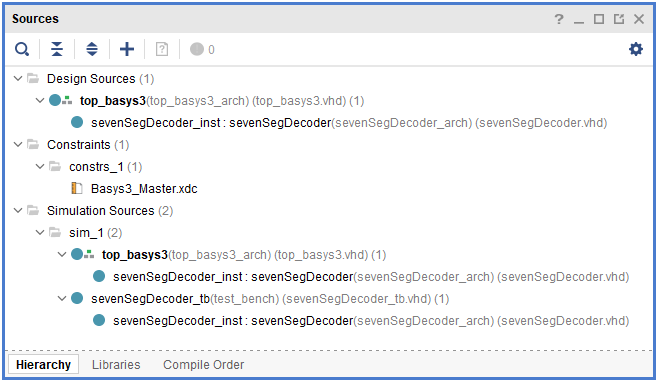
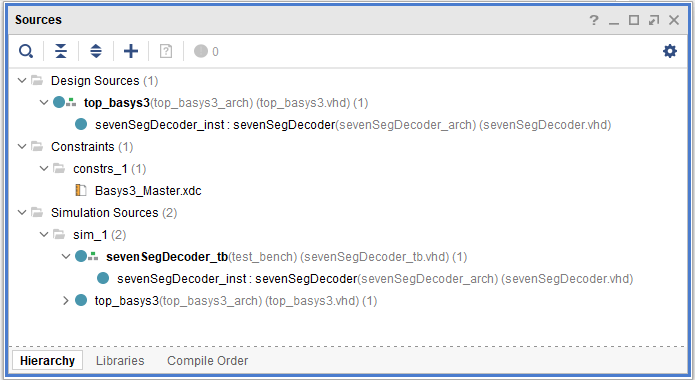
deploy: aa5d1c7a1cbb6d17ea5cd9da503f54fb292284c9

Changed region(s): [[0.0, 0.0, 1.0, 1.0], [0.6627, 0.8974, 0.753, 0.9263], [0.4518, 0.8974, 0.512, 0.9263]]

diff --git a/searchindex.js b/searchindex.js
@@ -1,1 +1,1 @@
-Search.setIndex({docnames:["ICE/ICE0","ICE/ICE1","ICE/ICE2","ICE/ICE3","appendix/github","appendix/vivado","faq","intro","lab/lab0","lab/lab1","lab/lab2"],envversion:{"sphinx.domains.c":2,"sphinx.domains.changeset":1,"sphinx.domains.citation":1,"sphinx.domains.cpp":5,"sphinx.domains.index":1,"sphinx.domains.javascript":2,"sphinx.domains.math":2,"sphinx.domains.python":3,"sphinx.domains.rst":2,"sphinx.domains.std":2,"sphinx.ext.intersphinx":1,sphinx:56},filenames:["ICE/ICE0.md","ICE/ICE1.md","ICE/ICE2.md","ICE/ICE3.md","appendix/github.md","appendix/vivado.md","faq.md","intro.md","lab/lab0.md","lab/lab1.md","lab/lab2.md"],objects:{},objnames:{},objtypes:{},terms:{"0":[1,2,3,4,5,7,9,10],"00":[3,4],"000":3,"0001":9,"001":3,"01":[2,3],"0fcc837":4,"0v":1,"1":[2,3,4,5,7,10],"10":[1,2,3,9,10],"100":4,"100644":4,"11":[1,9],"1100":9,"111":1,"114":4,"12":[2,9],"14":2,"15":[9,10],"16":9,"17":[2,10],"18":3,"19":3,"1981":2,"1x":1,"2":[1,3,4,5,7,8,9],"20":[3,10],"2017":2,"2018":[4,5],"20v":1,"22":9,"23":10,"24":10,"25":[9,10],"26":10,"27":10,"28":10,"281":1,"2x":1,"3":[1,2,4,5,7,9,10],"30":10,"31":9,"32":5,"33":5,"35":4,"3rd":0,"3v":1,"4":[1,9,10],"40":9,"4096":0,"4ddeb1c":4,"4th":9,"4x":1,"5":[1,2,4],"50":2,"5v":1,"5x":1,"6":[1,4],"7":[2,10],"7400":9,"7404":9,"7411":9,"74151":9,"74154":9,"7432":9,"8":[1,2,4,9],"9":[1,4],"9bf376d":4,"abstract":[2,3],"boolean":[1,10],"break":10,"case":[0,2,3,9,10],"class":[0,1,2,3,9],"default":[0,2,3,4,5,8,10],"do":[0,1,2,3,5,6,8,9,10],"final":[1,2,3,9],"float":9,"function":[0,1,2,3,9,10],"import":2,"k\u03c9":1,"long":9,"new":[2,3,4,8,10],"public":0,"short":2,"switch":[2,3,4,8,9,10],"true":2,"try":[0,2,3],"while":[2,10],A:[1,2,3,4,8,9],AND:[2,8,9,10],As:[3,9,10],At:2,But:[2,8],By:[0,2,5,8],For:[0,1,2,4,8,9,10],If:[0,1,2,3,4,5,8,10],In:[0,1,2,3,4,5,8,9,10],Is:10,It:[0,2,3,4,5,9,10],NO:[2,9,10],NOT:[2,3,9,10],No:5,OR:[7,9,10],On:[2,4,5,10],One:8,Or:[0,5,6],TO:5,That:8,The:[0,2,4,5,7,8,9,10],Then:[2,3,8,9,10],There:[2,4,9,10],These:[1,2,3,9,10],To:[1,2,4,9,10],_n:2,_pad:2,_tb:[2,4,5],_xil_proj_name_:5,ab:[2,3],abil:[7,8],abl:[0,2,5,7],about:[1,2,4,10],abov:[1,2,4,8,9,10],absolut:5,ac_:3,academ:[9,10],accept:[0,9,10],access:[0,2,4,9,10],accord:[1,9,10],accur:1,act:1,action:[2,3,9],activ:[1,2,9,10],actual:[2,9],ad:[2,3,10],add:[0,1,2,3,10],adder:[7,10],addit:[2,3,5,9],addition:1,address:[0,4],adjust:[2,9],advanc:5,advantag:10,advnac:5,after:[2,4,9,10],again:[2,10],aggreg:10,ahead:2,air:0,aka:10,algebra:1,align:1,all:[0,1,2,3,4,5,7,9,10],allow:[0,1,2,3,4,9,10],almost:2,along:[1,2],alreadi:[2,3,4,5,8,9,10],also:[0,2,4,8,9,10],altern:[2,5,8],alwai:[2,3],an:[1,2,3,4,5,7,8,9,10],analysi:[2,10],analyz:7,ani:[1,2,3,4,5,9,10],anod:10,anoth:[9,10],anyon:[9,10],anyth:[0,1,2,8],appear:[2,3,9],appendix:[0,2,4],applic:[0,1,2,3],appropri:[2,5,9],approv:4,ar:[0,1,2,3,4,5,9,10],area:10,aren:3,arrai:[2,10],arrang:1,arrow:2,ask:8,assert:[2,3,10],assign:[2,3,9,10],associ:2,assum:5,atlassian:0,attach:1,attent:9,attribut:[9,10],authent:0,author:[1,2],auto:[2,8],autofind:4,autom:[4,10],automat:[2,3],avail:[3,9,10],avoid:0,awar:2,awesom:3,b:[0,1,2,3,5,9,10],b_:2,back:[2,4],bad:[2,3],bar:1,bare:4,base:[2,4,5,10],bash:[0,2,4,5,8],basi:2,basic:[1,2,7,10],basys3:[5,9,10],basys3_mast:[2,10],basys3master_lab1:9,bat:[2,3,5,8],batch:5,bc_:3,bce0:2,bce:[7,8],bcy:5,becaus:[2,3,9,10],becom:2,been:[2,3,4,5,10],befor:[0,2,3,9,10],begin:[2,3,9,10],behavior:[2,8,9],being:[2,4],below:[2,3,4,5,9,10],bench:[2,3],benefit:[0,3],best:0,better:[4,10],between:[0,1,2,3,9],beyond:4,bidirect:2,bin:5,binari:[9,10],binaryhexdisp:10,bit0:10,bit3:10,bit:[2,3,8,9,10],bitbucket:0,bitstream:[8,9,10],black:[1,2],block:[0,2,6],blue:[1,9,10],board:[1,2,3,9,10],board_fil:5,boil:2,bold:5,book:4,both:[0,5],bottom:[1,2,5,10],boundari:3,box:[0,2,10],branch:0,breadboard:9,bring:[3,10],brows:2,btnc:10,bu:[2,10],buffer:2,bug:4,build:[0,3,4,5,9,10],built:[8,10],bunch:2,buss:[2,10],bust:2,button:[1,5,10],c:[0,1,5,6,9],c_:[2,3,10],c_sa:10,c_sg:10,cabl:1,cadet:[0,7],california:4,call:[2,5,10],can:[0,1,2,3,4,5,9,10],cancel:2,capt:2,carri:[2,3],cat:2,cathod:10,caus:10,cc:1,cd:[2,5,8],ceil:9,cell:2,center:[1,10],chang:[0,2,3,4,8,9,10],channel:0,chcek:5,check:[0,1,3,5,9,10],checkout:0,chip:[2,9],choic:[0,10],choos:0,circl:[2,8],circuit:[2,7,10],circuitri:9,clariti:10,classmat:0,classroom:[0,2,3,8,9],click:[2,5,8,9,10],clone:[0,3,5,9,10],close:[1,5],closer:1,cloud:[4,9],code:[0,1,2,3,4,5,8,9,10],cold:9,collabor:[0,4],color:2,column:[1,2],com:[0,2,4,8],combin:[0,1,2,3,7,9,10],combinatori:[2,10],come:[0,2,4,10],comma:2,command:[0,2,5],comment:[2,5,10],commit:[0,2,3,9,10],common:[0,2,8,10],compar:10,complet:[1,2,3,4,8,9],complex:[2,3,10],compon:[0,1,2,9,10],compos:10,compress:4,comput:[0,1,2,3,5],concaten:10,concept:[3,9],conceptu:2,concurr:[2,3,9,10],condit:9,config:0,configur:[1,4],confirm:2,conflict:0,congratul:[1,2,3],connect:[1,2,3,8,9,10],connector:2,consciou:2,consid:[1,2],consol:5,constant:2,constraint:[5,10],construct:[2,7,9],consult:2,contain:[1,2,4],contemporari:7,content:2,continu:[2,4],contrast:10,contribut:0,contributor:4,control:[0,4,5,7,9],convent:[2,3,5,9,10],convert:[9,10],coorespond:2,copi:[0,2,3,4,5,8,9,10],corner:[2,8],correct:[2,10],correctli:[2,9],correspond:[2,9],could:[4,10],count:4,cours:[0,1,2,3,4,9,10],cout:2,cover:10,creae:5,creat:[2,3,4,8,9,10],create_project:5,credednti:0,credit:[2,9,10],critic:2,cryptograph:0,ctrl:[2,10],current:[1,4],cyber:[0,2],d0:10,d1:10,d2:10,d3:10,d:[1,9,10],dai:9,dark:10,data:[1,2,5,9],datapath:7,datasheet:9,date:4,dc:1,dealt:[9,10],debug:[2,3,7,8],decemb:9,decim:10,declar:[2,9,10],decod:[7,9],deconflict:4,deep:4,defin:[2,7,9,10],definit:2,delai:9,delet:[4,5,10],delta:4,demo:[2,3,8,9],demonstr:[1,7],denot:10,depend:2,depict:1,deploi:4,depress:1,deriv:10,describ:[2,9,10],descript:[2,3,5,7],design:[1,5,9,10],desir:[2,9],destroi:1,detail:[2,3,8],determin:[9,10],develop:[0,2,4,7,9,10],devic:[1,2,8],devop:0,diagram:[2,7,10],did:[2,10],differ:[1,2,3,9,10],digit:[1,2,9,10],dip:1,dir:2,direct:[1,2],directli:[0,1,2,3,8,10],directori:[2,3,5,8],disabl:[2,10],discuss:[3,9,10],dishonor:[9,10],displai:[2,7],distribut:[0,4,10],dive:8,dmm:1,doc:4,document:[1,2,3,9,10],dod:2,doe:[0,2,10],don:[2,3,5],done:[2,4,5,9,10],doubl:[1,2,3,8,9,10],down:[0,1,2,4,9,10],download:[0,8,9,10],downto:[3,9,10],drive:[2,8],driver:2,dropdown:4,dude:4,due:[1,2,9,10],dure:[3,9],e:[2,9,10],each:[1,2,3,4,9,10],eae5f1a:4,earli:0,earlier:[2,10],easier:[2,10],easiest:5,easili:[1,10],ec:[1,4,8],ece281:[2,4,5],ece_templ:10,ece_template_tb:10,echo:5,ed25519:0,edg:1,edit:[9,10],editor:[0,2],either:[1,4,5,9],electron:9,element:2,els:10,elsewher:5,email:0,embed:10,embedd:6,emphasi:2,emploi:3,empti:2,emul:2,enabl:[9,10],encod:9,end:[0,10],endors:0,enitr:3,enough:10,enrol:7,ensur:[1,3,8,9,10],enter:[4,5],entir:[1,3,4,8,10],entiti:[4,5],enumer:4,environ:0,equat:[2,3,9,10],equival:[8,9],error:[2,10],essenc:2,essenti:10,establish:10,etc:2,eventu:9,everi:[4,9,10],everyth:[2,4,10],ex:[0,2],exact:9,exactli:10,exampl:[0,2,3,4,5,9,10],excel:10,except:2,execut:[2,7],exercis:[0,1,2,3],exist:[2,5],exit:[2,5],expand:9,expect:[0,1,2,3,9,10],experi:[1,2,3],explicitli:10,explor:[2,8],expos:0,express:[2,3,10],extend:3,extern:[0,2],extran:10,f:[2,6,10],f_:2,fact:0,fail:3,failur:[2,3],familiar:2,fantast:0,faq:7,far:[2,3,9],fast:[0,2,3,7],featur:4,feel:0,fetch:4,fetch_head:4,few:[2,5],ff_:2,fff_:2,field:2,fierc:0,fig:[1,2,3,5,9,10],figur:[2,10],file:[0,4,8],filenam:2,fill:[2,3,9,10],find:[1,2,5,9,10],fine:[0,2],finish:[0,5,9,10],firewal:2,first:[0,1,2,3,8,9,10],fit:2,fix:10,flat:1,flip:[2,8],flow:[0,5,8,10],focu:3,folder:[2,3,4,8,10],follow:[0,2,3,8,9,10],forc:0,forev:2,form:2,format:[2,10],found:[0,9],four:[1,2,5,9,10],fourth:9,fpga:10,fpgadevelop:5,frac:6,from:[0,1,2,5,8,9,10],furthermor:[9,10],futur:[2,9],g:[2,9,10],g_:2,gain:[1,2,3],gate:[2,3,7,9,10],gener:[0,3,8,9,10],get:[2,3,4,7,8],get_port:[2,3],git:[3,7,9],github:[2,3,7,9],github_repo:4,gitlab:0,give:9,given:[2,3],global:0,gnd:9,go:[0,1,2,3,5,8],goal:3,gone:2,good:[2,8],grade:[9,10],gradescop:[9,10],grai:2,graphic:0,greatli:2,green:[2,5,8],ground:[1,9],guard:0,gui:[0,8],guid:[0,2],gut:2,ha:[0,2,3,4,9,10],habit:2,half:[7,10],halfadd:[2,3],halfadder1_inst:3,halfadder2_inst:3,halfadder_arch:2,halfadder_inst:2,halfadder_tb:[2,3],hallfadd:3,hand:[2,8,9],handout:[9,10],happen:[2,10],hardwar:[1,2,5,7,8,9],have:[0,1,2,3,4,5,8,9,10],haven:9,hdl:[2,3,5,10],headach:9,header:[3,9,10],headquart:4,hello:8,hellol:[4,8],help:[1,2,4,9,10],here:[2,3,8,9],hex:[3,9,10],hexadecim:10,hi:0,hidden:4,hierarchi:[3,10],high:[1,2,10],highlight:[2,3],histori:4,hold:[2,10],home:0,honor:[9,10],host:[0,4],hover:2,how:[0,1,2,3,4,6,7,9,10],howev:[1,2,3,10],http:[0,4,8],i:[2,3,4,6],i_:[2,9,10],i_a:[2,3,9],i_b:[2,3,9],i_c:9,i_d:[9,10],i_sw:9,ic:[7,8,9],ice2:[2,3],ice3:[3,10],icon:2,id_algorithm:0,idea:8,ideal:1,ident:[0,2],identifi:10,idiom:2,ieee:2,ignor:[2,10],imag:[0,3],imagenam:3,img:[3,4],immedi:2,implement:[1,7,8],impli:4,implic:10,inc:4,includ:[0,1,3,4,9,10],incred:0,indent:1,independ:10,index:[3,9],indic:[1,2,4,10],individu:[3,9,10],info:4,inform:[2,9,10],initi:[0,2,9],inlin:6,input:[1,2,3,10],insert:[1,4],insid:[1,2,9],inspir:5,instal:[2,4,5,7],instanc:[2,10],instanti:2,instead:[0,2,3,9,10],instruct:[2,3,8,10],instructor:[0,1,2,3,8,9,10],integr:[0,2,4],interact:[2,4],interest:2,interfac:[0,2,10],intermedi:10,intern:[2,3,9,10],internet:4,interpret:2,introduc:3,invert:[9,10],invit:0,involv:[0,2],io:3,iostandard:[2,3],ir:6,isn:2,issu:[0,10],its:[1,2,10],itself:[2,10],januari:9,job:[2,3],join:[2,3,9],json:5,jumper:1,just:[0,1,2,3,4,5,6,8,9,10],k_:2,keep:[0,1,10],kei:[2,4,8],kept:4,kernel:0,keygen:0,keypair:0,keypress:5,keyword:10,kib:4,know:[0,5,9],lab0:5,lab1:5,lab2:10,lab:[0,1,2,3],label:[2,10],laboratori:7,lambda:6,languag:[2,7],laptop:0,larg:0,last:[2,8],late:4,later:[0,2,8],latex:6,launch:8,layer:[2,3],layout:1,lead:[1,3],learn:[0,1,2,9],least:[2,9,10],leav:[9,10],lectur:2,led0:2,led:[2,3,8,9],left:[1,2,8,10],leftmost:5,length:[1,2],less:1,lesson:[1,2,9,10],let:[2,3,9],letter:[9,10],level:[2,7,9],librari:[0,9],light:[1,8,10],like:[0,1,2,3,6,9,10],likewis:9,line:[0,1,2,3,9,10],liner:2,link:[0,2],linux:[0,4],list:[5,10],littl:0,live:[0,2,3,4,10],ll:8,local:[0,2,3,4,8],locat:[0,1,2,5,8,10],log:2,log_2:9,logic:[2,3,9,10],longer:1,look:[0,2,10],lookup:[2,10],lose:[2,4],lot:9,low:[1,2,9,10],lower:2,ls:2,lsb:[9,10],luckili:1,lut:[2,10],lvcmos33:[2,3],machin:[2,4],made:3,mai:[1,2,3,8,9,10],main:[0,2,4,9],maintain:2,make:[0,2,3,4,5,8,9,10],makeup:1,manag:[0,2,3,4,5,8],mani:[2,3,10],manipul:10,manner:10,manual:[2,3,10],map:[2,3,10],margin:2,mark:2,markdown:3,master:[0,4],match:[2,3,5,8,9,10],maxim:9,md:[3,4],me:4,mean:[1,2,3,9],media:0,meet:7,memori:2,menu:[2,4],merg:4,messag:[2,4,10],meta:4,meter:1,method:10,mib:4,microarchitectur:7,microsoft:[0,4],middl:1,migrat:3,mind:[0,3],minimum:4,minut:2,miss:2,missionnet:0,mkdir:8,mode:[2,4,5],model:9,modifi:[3,5],modul:[2,5,10],modular:10,month:9,more:[2,3,4,5,8,10],most:[0,1,2,4,9],mous:2,move:[2,9],msb:[9,10],multi:1,multimet:1,multipl:[0,2,4,10],multiplex:9,must:[0,2,3,5,9,10],mux:9,my:[0,3,4],name:[0,2,3,4,5,9,10],nand:9,nano:0,nativ:0,navig:[2,5,8,10],necessari:10,need:[0,1,2,3,4,5,9,10],neg:1,nest:5,newli:[2,8,10],next:[1,2,5,9],nice:[2,5],node:[1,2],non:4,none:[2,8],norepli:0,note:[0,1,2,3,5,9],notebook:[9,10],notepad:0,noth:2,notic:[1,2,3,10],now:[0,1,2,3,4,5,8,9,10],ns:[2,3,9],number:[2,3,10],numer:3,numeric_std:2,o:3,o_:[2,3,10],o_cout:[2,3],o_i:9,object:4,observ:[2,9],obviou:2,occurr:3,octal:3,off:[1,2,5,8,10],often:0,ok:[2,5,8],onc:[1,2,5,9],one:[0,1,2,3,5,9,10],onli:[0,1,2,3,4,5,9],onlin:[1,9],onto:8,op:1,open:[0,1,2,3,5,8,9,10],openssh:0,oper:[0,1,9,10],oplu:[2,3],opt:10,optim:2,option:[1,2,5,8],order:[3,5,8,9,10],organ:3,origin:4,origin_dir:5,other:[0,1,2,4,5,8,9,10],otherwis:[0,2,4,5,8,9,10],our:[0,1,2,3,5,8,9,10],ourselv:2,out:[2,3,9,10],output:[1,2,3,5,10],outsid:1,over:[0,2],overwhelm:0,overwrit:5,own:[1,9,10],p:10,pack:4,packag:2,package_pin:[2,3],page:[0,2],pai:9,pair:[9,10],palett:0,pane:[5,8],panel:2,parallel:2,parenthes:[9,10],part:[0,5,10],parti:0,partial:2,particip:2,partner:1,pass:[2,3,10],password:0,past:3,path:5,pattern:2,paus:5,pdf:[1,8,9],peek:2,per:2,perform:10,period:2,person:[0,9,10],perviou:3,philosophi:10,physic:[2,9,10],pick:5,pictur:2,pin:[1,2,9,10],pipelin:2,place:[1,2,4,5,9,10],placement:1,plan:[2,5,10],platform:2,plu:[2,4],plug:[2,8],png:[3,4],point:[2,4,9,10],polar:1,pop:2,popul:5,popular:0,popup:[2,8],port:[2,3,9,10],portion:[1,3,9],portnam:2,posit:[1,10],possibl:10,post:[2,5],potenti:1,power:[2,9,10],powershel:[0,4,8],practic:4,preced:2,prefer:[4,10],prefix:9,prelab:9,prepar:[0,1],prepent:2,present:5,press:[1,10],pretti:[0,8],previou:[2,3],primarili:2,print:[0,2,9],prior:9,privat:[0,2,3],probabl:5,problem:2,process:[2,3,9,10],produc:[2,5,9,10],profession:0,profil:0,program:[2,3,7],programm:2,project:[0,4],projeect:5,prompt:4,proof:2,proper:0,properli:[3,7,8],properti:[2,5],prototyp:[1,2],prove:0,provid:[0,1,2,3,4,9,10],pt:10,pub:0,pull:[1,3],purpl:[9,10],purpos:2,push:[0,2,3,5,9,10],put:[0,2],quick:[2,5],r:10,radio:5,radix:2,rail:1,ran:2,rate:1,rather:2,read:[0,1,2,9,10],readabl:10,readi:0,readm:[0,2,10],real:[0,2,3,7,9],realiz:2,reason:2,rebuild:5,recal:[2,3,9],receiv:[1,2],recommend:[0,3,10],record:[2,7],red:[1,2,5,9],redraw:[2,3],refer:[3,5,9,10],referenc:3,reflect:3,refresh:9,regist:[1,2],regular:2,rel:5,remain:[1,2,3,10],rememb:[3,9,10],remot:[0,2],remov:[2,4,10],renam:[2,9],repeat:[1,5,9],replac:[2,3,9,10],repo:[2,3,4,5,10],report:[2,3,7,9],repositori:[0,2,3,10],repres:[1,2,9],request:4,requir:[1,2,3,7,10],resolv:4,resourc:[1,10],rest:[0,2,5,9],restart:5,restor:4,result:[2,9,10],reus:[3,4],revamp:4,revers:10,revert:4,revisit:3,rewrit:5,right:[1,2,8,9,10],rightmost:8,roll:4,root:5,row:1,rsa:0,rtl:[5,10],rubric:10,rule:3,run:[2,3,4,5,8,10],runtim:2,s:[1,2,3,4,8,9,10],s_:2,sa:10,said:[2,10],same:[0,1,2,3,4,9],sane:10,saniti:5,save:[0,2,3,4,9,10],saw:[2,9],scan:9,schemat:[3,7,10],scope:4,scratch:2,screen:[0,5,10],screenshot:[3,4,10],script:4,seamlessli:5,search:5,second:[0,2,9,10],section:[2,3,9,10],secur:[0,2],see:[0,1,2,3,4,5,8,9,10],seek:1,seen:[1,9,10],seg:10,segment:7,sel:9,select:[0,1,2,4,5,8,9],self:0,semicolon:[2,10],send:10,sens:2,separ:9,sequenti:[2,7],seri:[1,2,10],servic:4,set:[0,1,2,3,5,9,10],set_properti:[2,3],seven:7,sevensegdecoder_tb:10,sever:[2,3],shall:7,share:3,sheet:[1,9],shell:0,shift:[2,10],should:[0,1,2,3,5,8,9,10],show:[1,2,3,4,5,8,10],shown:[2,3,5,9,10],side:[1,8,10],sign:[0,2],signal:[2,3,9,10],signaltyp:2,signific:9,sim:[5,10],similar:[2,3,5,9],similarli:9,simpl:[0,1,2,7,10],simpler:10,simpli:[1,2,10],simplifi:[9,10],simul:[5,8,10],sinc:[0,2,4,9,10],singl:[0,1,2,3,9],site:0,skip:[2,10],sm_:2,sn7432:1,sn74ls32:1,snippet:2,so:[1,2,3,4,8,9,10],social:0,softwar:[0,4,7],solut:9,some:[0,2,3,8,9,10],someth:[2,10],soon:0,sort:0,sourc:[0,1,2,3,5,9,10],space:[0,1,10],span:10,specif:2,specifi:[2,5],speed:2,spell:9,spike:1,spin:8,squirt:[3,8],src:[2,3,5,10],ssh:[4,8],stage:[0,2,4],stand:2,start:[2,5,7,8],starter:3,state:4,statement:[2,3,9,10],statu:[2,3],std_logic:[2,3,9],std_logic_1164:2,std_logic_vector:[2,3,9,10],step:[0,1,5],still:9,stimul:2,store:[0,8],strip:0,stuck:2,student:[0,1],stuff:2,style:0,sub:[2,5],subdirectori:5,submit:[0,9,10],subsidiari:4,succeed:2,success:2,successfulli:[0,1,2,9],suffer:2,suggest:10,suit:[0,2],sum:[2,3],sure:[0,2,3,5,8,9,10],surround:[2,10],sw0:[2,8],sw:[2,3,10],swap:10,symbol:[2,3],synchron:2,syntax:[3,9,10],synthes:[2,3,10],synthesi:2,system:[0,3,4,7],t:[0,2,3,5,9],tab:[2,5,8],tabl:10,tablet:9,tag:5,take:[2,3,8,9,10],taken:5,target:[2,8],task:4,tcl:[2,3,9],team:[0,1,8,10],techniqu:0,tell:[0,2,5,8],templat:[0,2,9,10],term:[2,10],termin:[0,2,8],test:[1,4,7,9],test_bench:2,test_process:2,text:[2,10],textbook:2,than:[1,2],thei:[2,5,9,10],them:[1,2,3,5,10],therefor:1,thi:[0,1,2,3,4,5,7,8,9,10],thing:[2,3],think:[2,9,10],third:[1,9],thirtyonedaymonth:[5,7],thirtyonedaymonth_tb:9,those:[0,3,4,5,10],though:3,thought:10,thread:4,three:[1,2,3,9,10],through:[0,1,2,9],throughout:2,thu:2,tide:0,time:[0,2,4,5,8,9,10],tip:3,todo:[0,2,3],togeth:[1,3],told:2,ton:4,tool:[0,2,3,7],top:[1,2,5,7,8,9],top_basys3:10,top_basys3_arch:3,top_basys3_tb:3,top_level:3,total:4,tough:0,toward:[1,2],trace:10,track:4,transfer:2,transistor:1,trigger:4,troubl:2,truth:10,ttl:1,turn:[1,2,3,9,10],two:[1,2,3,4,9,10],type:[0,2,9,10],typic:9,u16:9,ultim:2,uncheck:[5,10],uncom:[2,3,10],unconnect:9,under:[1,2,5,8,9,10],underneath:2,understand:[0,7,10],unexpect:5,unfortun:5,uniqu:3,unisim:2,unit:[2,7,9],unix:0,unless:[5,9,10],unlik:[2,3],unsign:9,unstag:4,untrack:4,unus:9,up:[0,1,4,8,9,10],updat:[4,5],upload:0,upon:10,upper:2,url:[4,8],us:[0,1,2,3,4,6,7,8,9,10],usafa:[0,4,8],usag:5,usb:[1,2],user:[0,4,5,10],usernam:0,usg:0,usual:0,util:[1,2],uut:[2,9],v17:[2,3,9],v:[1,4,6],v_:[1,2],valid:5,valu:[1,2,3,9,10],variabl:[2,3],varieti:0,vcc:9,vdhl:[2,3],ve:0,vector:[2,3,9,10],veri:[2,4,8,9],verif:2,verifi:[0,2,3,7,8,9,10],verilog:2,version:[0,4,5],vertic:1,vhd:[2,3,5,9,10],vhdl:[3,5,9,10],vhsic:2,via:[1,10],viavado:2,viavdo:2,video:2,view:[0,5],vim:0,violat:[9,10],virtual:2,vivado:7,vivadopath:5,voltag:1,vs:[0,5],w_7sd_en_n:10,w_:2,w_cout1:3,w_led0:2,w_led1:2,w_led:3,w_s1:3,w_sd_en_n:10,w_seg:10,w_sel:9,w_sw0:2,w_sw1:2,w_sw:[3,9],wa:[0,2,8,9],wai:[2,10],wait:[0,2,3,5,8,9],walk:0,want:[2,4,8,9,10],warner:2,waveform:[2,3,8,9,10],we:[0,1,2,3,5,8,9,10],web:4,websit:4,welcom:[0,5],well:[0,3,10],were:[0,2],what:[0,2,3,4,8,9,10],whatev:5,when:[0,1,2,4,5,8,9,10],whenev:2,where:[1,2,3,4,5,10],wherev:8,whether:10,which:[1,2,3,4,9,10],white:1,who:0,whole:3,wide:0,wiki:4,wikipedia:4,window:[0,2,4,5,8,9,10],wire:[2,3,9,10],within:[0,2,3,9,10],without:[2,9,10],wizard:5,word:2,work:[0,1,2,3,4,7,8,9,10],workflow:4,workstat:3,world:[0,8],worth:5,would:[1,2,4,9,10],write:[0,2,3,4,9],written:9,x:[1,9,10],xb_:2,xc7a35tcpg236:5,xdc:[2,3,5,9,10],xi_:2,xilinx:[2,3,7],xilinxboardstor:5,xml:5,xo_:2,xor:2,xpr:[2,8],y:[1,9],ye:[2,8],yet:2,yield:6,you:[0,1,2,3,4,5,8,9,10],your:[0,1,3,4,5,8,9,10],your_email:0,yourproject:5,yourself:0,zero:1,zoom:2,zybook:2},titles:["BCE 0: Get started with Git","ICE 1: OR Gates","ICE 2: Half-Adder","ICE 3: Top Level Design","GitHub real fast","Xilinx Vivado","FAQ","ECE 281: Digital Design and Computer Architecture","Lab 0: Install Vivado","Lab 1 - ThirtyOneDayMonth","Lab 2 - Seven Segment Display Decoder"],titleterms:{"0":[0,8],"1":[1,9],"2":[2,10],"281":7,"3":3,"7432":1,"7sd":10,"class":7,"import":3,"new":5,"switch":1,A:10,In:7,OR:1,The:[1,3],To:5,account:0,action:10,actual:5,add:[4,5],adder:[2,3],agenda:1,an:0,appendix:7,architectur:[2,3,7,9,10],assign:0,background:[1,2,3,9,10],basic:0,bce:0,behavior:10,bitstream:[2,3],board:5,branch:4,breadboard:1,build:[1,2,8],chang:5,check:2,chip:1,circuit:[1,9],clone:[2,4,8],collabor:[1,9,10],commit:4,complet:[0,10],compon:3,comput:7,configur:[0,2],constraint:[2,3,9],cours:7,creat:[0,5],criteria:1,declar:3,decod:10,deliver:[9,10],demo:10,design:[2,3,7],diff:5,digit:7,displai:10,download:2,draw:9,ec:7,edit:[2,3,5],end:[2,3],entiti:[2,3,9,10],equat:1,exercis:7,exit:1,faq:6,fast:4,file:[2,3,5,9,10],flow:2,fpga:[2,3,8,9],from:[3,4],full:3,gate:1,gener:2,get:0,git:[0,2,4,5,8,10],github:[0,4,8,10],goal:7,half:[2,3],hardwar:10,header:2,how:5,ic:[1,2,3],id:0,implement:[2,3,9,10],includ:2,info:7,input:9,instal:[0,8],instanti:3,integr:9,interfac:9,k:9,kei:0,lab:[7,8,9,10],led:1,level:[3,10],librari:2,logic:1,manual:5,map:9,model:10,modifi:2,multipl:3,note:10,object:[1,2,3,7,9,10],onto:2,option:0,other:3,output:9,overview:[0,1,2,3,8,9,10],power:1,pre:[9,10],prelab:10,program:8,project:[2,3,5,8,9,10],pull:4,push:4,readm:3,real:4,rememb:2,remot:4,report:10,repositori:[4,8],resistor:1,rtl:2,run:9,schemat:[2,9],segment:10,setup:[0,2,3,8,9,10],seven:10,sevensegdecod:10,simul:[2,3,9],ssh:0,start:0,state:[2,3],statu:4,structur:10,suppli:[1,9,10],syntax:2,tabl:[2,3,9],tcl:5,technolog:2,test:[2,3,8,10],testbench:[2,3,9],thirtyonedaymonth:9,top:[3,10],top_basys3:3,truth:[2,3,9],understand:2,up:[2,3],us:5,vhdl:2,view:2,vivado:[2,3,5,8,9,10],vs:10,wave:2,what:5,wire:1,work:5,wrap:[2,3],write:5,written:10,xilinx:5,your:2}})
+Search.setIndex({docnames:["ICE/ICE0","ICE/ICE1","ICE/ICE2","ICE/ICE3","appendix/github","appendix/vivado","faq","intro","lab/lab0","lab/lab1","lab/lab2"],envversion:{"sphinx.domains.c":2,"sphinx.domains.changeset":1,"sphinx.domains.citation":1,"sphinx.domains.cpp":5,"sphinx.domains.index":1,"sphinx.domains.javascript":2,"sphinx.domains.math":2,"sphinx.domains.python":3,"sphinx.domains.rst":2,"sphinx.domains.std":2,"sphinx.ext.intersphinx":1,sphinx:56},filenames:["ICE/ICE0.md","ICE/ICE1.md","ICE/ICE2.md","ICE/ICE3.md","appendix/github.md","appendix/vivado.md","faq.md","intro.md","lab/lab0.md","lab/lab1.md","lab/lab2.md"],objects:{},objnames:{},objtypes:{},terms:{"0":[1,2,3,4,5,7,9,10],"00":[3,4],"000":3,"0001":9,"001":3,"01":[2,3],"0fcc837":4,"0v":1,"1":[2,3,4,5,7,10],"10":[1,2,3,9,10],"100":4,"100644":4,"11":[1,9],"1100":9,"111":1,"114":4,"12":[2,9],"14":2,"15":[9,10],"16":9,"17":[2,10],"18":3,"19":3,"1981":2,"1x":1,"2":[1,3,4,5,7,8,9],"20":[3,10],"2017":2,"2018":[4,5],"20v":1,"22":9,"23":10,"24":10,"25":[9,10],"26":10,"27":10,"28":10,"281":1,"2x":1,"3":[1,2,4,5,7,9,10],"30":10,"31":9,"32":5,"33":5,"35":4,"3rd":0,"3v":1,"4":[1,9,10],"40":9,"4096":0,"4ddeb1c":4,"4th":9,"4x":1,"5":[1,2,4],"50":2,"5v":1,"5x":1,"6":[1,4],"7":[2,10],"7400":9,"7404":9,"7411":9,"74151":9,"74154":9,"7432":9,"8":[1,2,4,9],"9":[1,4],"9bf376d":4,"abstract":[2,3],"boolean":[1,10],"break":10,"case":[0,2,3,9,10],"class":[0,1,2,3,9],"default":[0,2,3,4,5,8,10],"do":[0,1,2,3,5,6,8,9,10],"final":[1,2,3,9],"float":9,"function":[0,1,2,3,9,10],"import":2,"k\u03c9":1,"long":9,"new":[2,3,4,8,10],"public":0,"short":2,"switch":[2,3,4,8,9,10],"true":2,"try":[0,2,3],"while":[2,10],A:[1,2,3,4,8,9],AND:[2,8,9,10],As:[3,9,10],At:2,But:[2,8],By:[0,2,5,8],For:[0,1,2,4,8,9,10],If:[0,1,2,3,4,5,8,10],In:[0,1,2,3,4,5,8,9,10],Is:10,It:[0,2,3,4,5,9,10],NO:[2,9,10],NOT:[2,3,9,10],No:5,OR:[7,9,10],On:[2,4,5,10],One:8,Or:[0,5,6],TO:5,That:8,The:[0,2,4,5,7,8,9,10],Then:[2,3,8,9,10],There:[2,4,9,10],These:[1,2,3,9,10],To:[1,2,4,9,10],_n:2,_pad:2,_tb:[2,4,5],_xil_proj_name_:5,ab:[2,3],abil:[7,8],abl:[0,2,5,7],about:[1,2,4,10],abov:[1,2,4,8,9,10],absolut:5,ac_:3,academ:[9,10],accept:[0,9,10],access:[0,2,4,9,10],accord:[1,9,10],accur:1,act:1,action:[2,3,9],activ:[1,2,9,10],actual:[2,9],ad:[2,3,10],add:[0,1,2,3,10],adder:[7,10],addit:[2,3,5,9],addition:1,address:[0,4],adjust:[2,9],advanc:5,advantag:10,advnac:5,after:[2,4,9,10],again:[2,10],aggreg:10,ahead:2,air:0,aka:10,algebra:1,align:1,all:[0,1,2,3,4,5,7,9,10],allow:[0,1,2,3,4,9,10],almost:2,along:[1,2],alreadi:[2,3,4,5,8,9,10],also:[0,2,4,8,9,10],altern:[2,5,8],alwai:[2,3],an:[1,2,3,4,5,7,8,9,10],analysi:[2,10],analyz:7,ani:[1,2,3,4,5,9,10],anod:10,anoth:[9,10],anyon:[9,10],anyth:[0,1,2,8],appear:[2,3,9],appendix:[0,2,4],applic:[0,1,2,3],appropri:[2,5,9],approv:4,ar:[0,1,2,3,4,5,9,10],area:10,aren:3,arrai:[2,10],arrang:1,arrow:2,ask:8,assert:[2,3,10],assign:[2,3,9,10],associ:2,assum:5,atlassian:0,attach:1,attent:9,attribut:[9,10],authent:0,author:[1,2],auto:[2,8],autofind:4,autom:[4,10],automat:[2,3],avail:[3,9,10],avoid:0,awar:2,awesom:3,b:[0,1,2,3,5,9,10],b_:2,back:[2,4],bad:[2,3],bar:1,bare:4,base:[2,4,5,10],bash:[0,2,4,5,8],basi:2,basic:[1,2,7,10],basys3:[5,9,10],basys3_mast:[2,10],basys3master_lab1:9,bat:[2,3,5,8],batch:5,bc_:3,bce0:2,bce:[7,8],bcy:5,becaus:[2,3,9,10],becom:2,been:[2,3,4,5,10],befor:[0,2,3,9,10],begin:[2,3,9,10],behavior:[2,8,9],being:[2,4],below:[2,3,4,5,9,10],bench:[2,3],benefit:[0,3],best:0,better:[4,10],between:[0,1,2,3,9],beyond:4,bidirect:2,bin:5,binari:[9,10],binaryhexdisp:10,bit0:10,bit3:10,bit:[2,3,8,9,10],bitbucket:0,bitstream:[8,9,10],black:[1,2],block:[0,2,6],blue:[1,9,10],board:[1,2,3,9,10],board_fil:5,boil:2,bold:5,book:4,both:[0,5],bottom:[1,2,5,10],boundari:3,box:[0,2,10],branch:0,breadboard:9,bring:[3,10],brows:2,btnc:10,bu:[2,10],buffer:2,bug:4,build:[0,3,4,5,9,10],built:[8,10],bunch:2,buss:[2,10],bust:2,button:[1,5,10],c:[0,1,5,6,9],c_:[2,3,10],c_sa:10,c_sg:10,cabl:1,cadet:[0,7],california:4,call:[2,5,10],can:[0,1,2,3,4,5,9,10],cancel:2,capt:2,carri:[2,3],cat:2,cathod:10,caus:10,cc:1,cd:[2,5,8],ceil:9,cell:2,center:[1,10],chang:[0,2,3,4,8,9,10],channel:0,chcek:5,check:[0,1,3,5,9,10],checkout:0,chip:[2,9],choic:[0,10],choos:[0,10],circl:[2,8],circuit:[2,7,10],circuitri:9,clariti:10,classmat:0,classroom:[0,2,3,8,9],click:[2,5,8,9,10],clone:[0,3,5,9,10],close:[1,5],closer:1,cloud:[4,9],code:[0,1,2,3,4,5,8,9,10],cold:9,collabor:[0,4],color:2,column:[1,2],com:[0,2,4,8],combin:[0,1,2,3,7,9,10],combinatori:[2,10],come:[0,2,4,10],comma:2,command:[0,2,5],comment:[2,5,10],commit:[0,2,3,9,10],common:[0,2,8,10],compar:10,complet:[1,2,3,4,8,9],complex:[2,3,10],compon:[0,1,2,9,10],compos:10,compress:4,comput:[0,1,2,3,5],concaten:10,concept:[3,9],conceptu:2,concurr:[2,3,9,10],condit:9,config:0,configur:[1,4],confirm:2,conflict:0,congratul:[1,2,3],connect:[1,2,3,8,9,10],connector:2,consciou:2,consid:[1,2],consol:5,constant:2,constraint:[5,10],construct:[2,7,9],consult:2,contain:[1,2,4],contemporari:7,content:2,continu:[2,4],contrast:10,contribut:0,contributor:4,control:[0,4,5,7,9],convent:[2,3,5,9,10],convert:[9,10],coorespond:2,copi:[0,2,3,4,5,8,9,10],corner:[2,8],correct:[2,10],correctli:[2,9],correspond:[2,9],could:[4,10],count:4,cours:[0,1,2,3,4,9,10],cout:2,cover:10,creae:5,creat:[2,3,4,8,9,10],create_project:5,credednti:0,credit:[2,9,10],critic:2,cryptograph:0,ctrl:[2,10],current:[1,4],cyber:[0,2],d0:10,d1:10,d2:10,d3:10,d:[1,9,10],dai:9,dark:10,data:[1,2,5,9],datapath:7,datasheet:9,date:4,dc:1,dealt:[9,10],debug:[2,3,7,8],decemb:9,decim:10,declar:[2,9,10],decod:[7,9],deconflict:4,deep:4,defin:[2,7,9,10],definit:2,delai:9,delet:[4,5,10],delta:4,demo:[2,3,8,9],demonstr:[1,7],denot:10,depend:2,depict:1,deploi:4,depress:1,deriv:10,describ:[2,9,10],descript:[2,3,5,7],design:[1,5,9,10],desir:[2,9],destroi:1,detail:[2,3,8],determin:[9,10],develop:[0,2,4,7,9,10],devic:[1,2,8],devop:0,diagram:[2,7,10],did:[2,10],differ:[1,2,3,9,10],digit:[1,2,9,10],dip:1,dir:2,direct:[1,2],directli:[0,1,2,3,8,10],directori:[2,3,5,8],disabl:[2,10],discuss:[3,9,10],dishonor:[9,10],displai:[2,7],distribut:[0,4,10],dive:8,dmm:1,doc:4,document:[1,2,3,9,10],dod:2,doe:[0,2,10],don:[2,3,5],done:[2,4,5,9,10],doubl:[1,2,3,8,9,10],down:[0,1,2,4,9,10],download:[0,8,9,10],downto:[3,9,10],drive:[2,8],driver:2,dropdown:4,dude:4,due:[1,2,9,10],dure:[3,9],e:[2,9,10],each:[1,2,3,4,9,10],eae5f1a:4,earli:0,earlier:[2,10],easier:[2,10],easiest:5,easili:[1,10],ec:[1,4,8],ece281:[2,4,5],ece_templ:10,ece_template_tb:10,echo:5,ed25519:0,edg:1,edit:[9,10],editor:[0,2],either:[1,4,5,9],electron:9,element:2,els:10,elsewher:5,email:0,embed:10,embedd:6,emphasi:2,emploi:3,empti:2,emul:2,enabl:[9,10],encod:9,end:[0,10],endors:0,enitr:3,enough:10,enrol:7,ensur:[1,3,8,9,10],enter:[4,5],entir:[1,3,4,8,10],entiti:[4,5],enumer:4,environ:0,equat:[2,3,9,10],equival:[8,9],error:[2,10],essenc:2,essenti:10,establish:10,etc:2,eventu:9,everi:[4,9,10],everyth:[2,4,10],ex:[0,2],exact:9,exactli:10,exampl:[0,2,3,4,5,9,10],excel:10,except:2,execut:[2,7],exercis:[0,1,2,3],exist:[2,5],exit:[2,5],expand:9,expect:[0,1,2,3,9,10],experi:[1,2,3],explicitli:10,explor:[2,8],expos:0,express:[2,3,10],extend:3,extern:[0,2],extran:10,f:[2,6,10],f_:2,fact:0,fail:3,failur:[2,3],familiar:2,fantast:0,faq:7,far:[2,3,9],fast:[0,2,3,7],featur:4,feel:0,fetch:4,fetch_head:4,few:[2,5],ff_:2,fff_:2,field:2,fierc:0,fig:[1,2,3,5,9,10],figur:[2,10],file:[0,4,8],filenam:2,fill:[2,3,9,10],find:[1,2,5,9,10],fine:[0,2],finish:[0,5,9,10],firewal:2,first:[0,1,2,3,8,9,10],fit:2,fix:10,flat:1,flip:[2,8],flow:[0,5,8,10],focu:3,folder:[2,3,4,8,10],follow:[0,2,3,8,9,10],forc:0,forev:2,form:2,format:[2,10],found:[0,9],four:[1,2,5,9,10],fourth:9,fpga:10,fpgadevelop:5,frac:6,from:[0,1,2,5,8,9,10],furthermor:[9,10],futur:[2,9],g:[2,9,10],g_:2,gain:[1,2,3],gate:[2,3,7,9,10],gener:[0,3,8,9,10],get:[2,3,4,7,8],get_port:[2,3],git:[3,7,9],github:[2,3,7,9],github_repo:4,gitlab:0,give:9,given:[2,3],global:0,gnd:9,go:[0,1,2,3,5,8],goal:3,gone:2,good:[2,8],grade:[9,10],gradescop:[9,10],grai:2,graphic:0,greatli:2,green:[2,5,8],ground:[1,9],guard:0,gui:[0,8],guid:[0,2],gut:2,ha:[0,2,3,4,9,10],habit:2,half:[7,10],halfadd:[2,3],halfadder1_inst:3,halfadder2_inst:3,halfadder_arch:2,halfadder_inst:2,halfadder_tb:[2,3],hallfadd:3,hand:[2,8,9],handout:[9,10],happen:[2,10],hardwar:[1,2,5,7,8,9],have:[0,1,2,3,4,5,8,9,10],haven:9,hdl:[2,3,5,10],headach:9,header:[3,9,10],headquart:4,hello:8,hellol:[4,8],help:[1,2,4,9,10],here:[2,3,8,9],hex:[3,9,10],hexadecim:10,hi:0,hidden:4,hierarchi:[3,10],high:[1,2,10],highlight:[2,3],histori:4,hold:[2,10],home:0,honor:[9,10],host:[0,4],hover:2,how:[0,1,2,3,4,6,7,9,10],howev:[1,2,3,10],http:[0,4,8],i:[2,3,4,6],i_:[2,9,10],i_a:[2,3,9],i_b:[2,3,9],i_c:9,i_d:[9,10],i_sw:9,ic:[7,8,9],ice2:[2,3],ice3:[3,10],icon:2,id_algorithm:0,idea:8,ideal:1,ident:[0,2],identifi:10,idiom:2,ieee:2,ignor:[2,10],imag:[0,3],imagenam:3,img:[3,4],immedi:2,implement:[1,7,8],impli:4,implic:10,inc:4,includ:[0,1,3,4,9,10],incred:0,indent:1,independ:10,index:[3,9],indic:[1,2,4,10],individu:[3,9,10],info:4,inform:[2,9,10],initi:[0,2,9],inlin:6,input:[1,2,3,10],insert:[1,4],insid:[1,2,9],inspir:5,instal:[2,4,5,7],instanc:[2,10],instanti:2,instead:[0,2,3,9,10],instruct:[2,3,8,10],instructor:[0,1,2,3,8,9,10],integr:[0,2,4],interact:[2,4],interest:2,interfac:[0,2,10],intermedi:10,intern:[2,3,9,10],internet:4,interpret:2,introduc:3,invert:[9,10],invit:0,involv:[0,2],io:3,iostandard:[2,3],ir:6,isn:2,issu:[0,10],its:[1,2,10],itself:[2,10],januari:9,job:[2,3],join:[2,3,9],json:5,jumper:1,just:[0,1,2,3,4,5,6,8,9,10],k_:2,keep:[0,1,10],kei:[2,4,8],kept:4,kernel:0,keygen:0,keypair:0,keypress:5,keyword:10,kib:4,know:[0,5,9],lab0:5,lab1:5,lab2:10,lab:[0,1,2,3],label:[2,10],laboratori:7,lambda:6,languag:[2,7],laptop:0,larg:0,last:[2,8],late:4,later:[0,2,8],latex:6,launch:8,layer:[2,3],layout:1,lead:[1,3],learn:[0,1,2,9],least:[2,9,10],leav:[9,10],lectur:2,led0:2,led:[2,3,8,9],left:[1,2,8,10],leftmost:5,length:[1,2],less:1,lesson:[1,2,9,10],let:[2,3,9],letter:[9,10],level:[2,7,9],librari:[0,9],light:[1,8,10],like:[0,1,2,3,6,9,10],likewis:9,line:[0,1,2,3,9,10],liner:2,link:[0,2],linux:[0,4],list:[5,10],littl:0,live:[0,2,3,4,10],ll:8,local:[0,2,3,4,8],locat:[0,1,2,5,8,10],log:2,log_2:9,logic:[2,3,9,10],longer:1,look:[0,2,10],lookup:[2,10],lose:[2,4],lot:9,low:[1,2,9,10],lower:2,ls:2,lsb:[9,10],luckili:1,lut:[2,10],lvcmos33:[2,3],machin:[2,4],made:3,mai:[1,2,3,8,9,10],main:[0,2,4,9],maintain:2,make:[0,2,3,4,5,8,9,10],makeup:1,manag:[0,2,3,4,5,8],mani:[2,3,10],manipul:10,manner:10,manual:[2,3,10],map:[2,3,10],margin:2,mark:2,markdown:3,master:[0,4],match:[2,3,5,8,9,10],maxim:9,md:[3,4],me:4,mean:[1,2,3,9],media:0,meet:7,memori:2,menu:[2,4],merg:4,messag:[2,4,10],meta:4,meter:1,method:10,mib:4,microarchitectur:7,microsoft:[0,4],middl:1,migrat:3,mind:[0,3],minimum:4,minut:2,miss:2,missionnet:0,mkdir:8,mode:[2,4,5],model:9,modifi:[3,5],modul:[2,5,10],modular:10,month:9,more:[2,3,4,5,8,10],most:[0,1,2,4,9],mous:2,move:[2,9],msb:[9,10],multi:1,multimet:1,multipl:[0,2,4,10],multiplex:9,must:[0,2,3,5,9,10],mux:9,my:[0,3,4],name:[0,2,3,4,5,9,10],nand:9,nano:0,nativ:0,navig:[2,5,8,10],necessari:10,need:[0,1,2,3,4,5,9,10],neg:1,nest:5,newli:[2,8,10],next:[1,2,5,9],nice:[2,5],node:[1,2],non:4,none:[2,8],norepli:0,note:[0,1,2,3,5,9],notebook:[9,10],notepad:0,noth:2,notic:[1,2,3,10],now:[0,1,2,3,4,5,8,9,10],ns:[2,3,9],number:[2,3,10],numer:3,numeric_std:2,o:3,o_:[2,3,10],o_cout:[2,3],o_i:9,object:4,observ:[2,9],obviou:2,occurr:3,octal:3,off:[1,2,5,8,10],often:0,ok:[2,5,8],onc:[1,2,5,9],one:[0,1,2,3,5,9,10],onli:[0,1,2,3,4,5,9],onlin:[1,9],onto:8,op:1,open:[0,1,2,3,5,8,9,10],openssh:0,oper:[0,1,9,10],oplu:[2,3],opt:10,optim:2,option:[1,2,5,8],order:[3,5,8,9,10],organ:3,origin:4,origin_dir:5,other:[0,1,2,4,5,8,9,10],otherwis:[0,2,4,5,8,9,10],our:[0,1,2,3,5,8,9,10],ourselv:2,out:[2,3,9,10],output:[1,2,3,5,10],outsid:1,over:[0,2],overwhelm:0,overwrit:5,own:[1,9,10],p:10,pack:4,packag:2,package_pin:[2,3],page:[0,2],pai:9,pair:[9,10],palett:0,pane:[5,8],panel:2,parallel:2,parenthes:[9,10],part:[0,5,10],parti:0,partial:2,particip:2,partner:1,pass:[2,3,10],password:0,past:3,path:5,pattern:2,paus:5,pdf:[1,8,9],peek:2,per:2,perform:10,period:2,person:[0,9,10],perviou:3,philosophi:10,physic:[2,9,10],pick:5,pictur:2,pin:[1,2,9,10],pipelin:2,place:[1,2,4,5,9,10],placement:1,plan:[2,5,10],platform:2,plu:[2,4],plug:[2,8],png:[3,4],point:[2,4,9,10],polar:1,pop:2,popul:5,popular:0,popup:[2,8],port:[2,3,9,10],portion:[1,3,9],portnam:2,posit:[1,10],possibl:10,post:[2,5],potenti:1,power:[2,9,10],powershel:[0,4,8],practic:4,preced:2,prefer:[4,10],prefix:9,prelab:9,prepar:[0,1],prepent:2,present:5,press:[1,10],pretti:[0,8],previou:[2,3],primarili:2,print:[0,2,9],prior:9,privat:[0,2,3],probabl:5,problem:2,process:[2,3,9,10],produc:[2,5,9,10],profession:0,profil:0,program:[2,3,7],programm:2,project:[0,4],projeect:5,prompt:4,proof:2,proper:0,properli:[3,7,8],properti:[2,5],prototyp:[1,2],prove:0,provid:[0,1,2,3,4,9,10],pt:10,pub:0,pull:[1,3],purpl:[9,10],purpos:2,push:[0,2,3,5,9,10],put:[0,2],quick:[2,5],r:10,radio:5,radix:2,rail:1,ran:2,rate:1,rather:2,read:[0,1,2,9,10],readabl:10,readi:0,readm:[0,2,10],real:[0,2,3,7,9],realiz:2,reason:2,rebuild:5,recal:[2,3,9],receiv:[1,2],recommend:[0,3,10],record:[2,7],red:[1,2,5,9],redraw:[2,3],refer:[3,5,9,10],referenc:3,reflect:3,refresh:9,regist:[1,2],regular:2,rel:5,remain:[1,2,3,10],rememb:[3,9,10],remot:[0,2],remov:[2,4,10],renam:[2,9],repeat:[1,5,9],replac:[2,3,9,10],repo:[2,3,4,5,10],report:[2,3,7,9],repositori:[0,2,3,10],repres:[1,2,9],request:4,requir:[1,2,3,7,10],resolv:4,resourc:[1,10],rest:[0,2,5,9],restart:5,restor:4,result:[2,9,10],reus:[3,4],revamp:4,revers:10,revert:4,revisit:3,rewrit:5,right:[1,2,8,9,10],rightmost:8,roll:4,root:5,row:1,rsa:0,rtl:[5,10],rubric:10,rule:3,run:[2,3,4,5,8,10],runtim:2,s:[1,2,3,4,8,9,10],s_:2,sa:10,said:[2,10],same:[0,1,2,3,4,9],sane:10,saniti:5,save:[0,2,3,4,9,10],saw:[2,9],scan:9,schemat:[3,7,10],scope:4,scratch:2,screen:[0,5,10],screenshot:[3,4,10],script:4,seamlessli:5,search:5,second:[0,2,9,10],section:[2,3,9,10],secur:[0,2],see:[0,1,2,3,4,5,8,9,10],seek:1,seen:[1,9,10],seg:10,segment:7,sel:9,select:[0,1,2,4,5,8,9],self:0,semicolon:[2,10],send:10,sens:2,separ:9,sequenti:[2,7],seri:[1,2,10],servic:4,set:[0,1,2,3,5,9,10],set_properti:[2,3],seven:7,sevensegdecoder_tb:10,sever:[2,3],shall:7,share:3,sheet:[1,9],shell:0,shift:[2,10],should:[0,1,2,3,5,8,9,10],show:[1,2,3,4,5,8,10],shown:[2,3,5,9,10],side:[1,8,10],sign:[0,2],signal:[2,3,9,10],signaltyp:2,signific:9,sim:[5,10],similar:[2,3,5,9],similarli:9,simpl:[0,1,2,7,10],simpler:10,simpli:[1,2,10],simplifi:[9,10],simul:[5,8,10],sinc:[0,2,4,9,10],singl:[0,1,2,3,9],site:0,skip:[2,10],sm_:2,sn7432:1,sn74ls32:1,snippet:2,so:[1,2,3,4,8,9,10],social:0,softwar:[0,4,7],solut:9,some:[0,2,3,8,9,10],someth:[2,10],soon:0,sort:0,sourc:[0,1,2,3,5,9,10],space:[0,1,10],span:10,specif:2,specifi:[2,5],speed:2,spell:9,spike:1,spin:8,squirt:[3,8],src:[2,3,5,10],ssh:[4,8],stage:[0,2,4],stand:2,start:[2,5,7,8],starter:3,state:4,statement:[2,3,9,10],statu:[2,3],std_logic:[2,3,9],std_logic_1164:2,std_logic_vector:[2,3,9,10],step:[0,1,5],still:9,stimul:2,store:[0,8],strip:0,stuck:2,student:[0,1],stuff:2,style:0,sub:[2,5],subdirectori:5,submit:[0,9,10],subsidiari:4,succeed:2,success:2,successfulli:[0,1,2,9],suffer:2,suggest:10,suit:[0,2],sum:[2,3],sure:[0,2,3,5,8,9,10],surround:[2,10],sw0:[2,8],sw:[2,3,10],swap:10,symbol:[2,3],synchron:2,syntax:[3,9,10],synthes:[2,3,10],synthesi:2,system:[0,3,4,7],t:[0,2,3,5,9],tab:[2,5,8],tabl:10,tablet:9,tag:5,take:[2,3,8,9,10],taken:5,target:[2,8],task:4,tcl:[2,3,9],team:[0,1,8,10],techniqu:0,tell:[0,2,5,8],templat:[0,2,9,10],term:[2,10],termin:[0,2,8],test:[1,4,7,9],test_bench:2,test_process:2,text:[2,10],textbook:2,than:[1,2],thei:[2,5,9,10],them:[1,2,3,5,10],therefor:1,thi:[0,1,2,3,4,5,7,8,9,10],thing:[2,3],think:[2,9,10],third:[1,9],thirtyonedaymonth:[5,7],thirtyonedaymonth_tb:9,those:[0,3,4,5,10],though:3,thought:10,thread:4,three:[1,2,3,9,10],through:[0,1,2,9],throughout:2,thu:2,tide:0,time:[0,2,4,5,8,9,10],tip:3,todo:[0,2,3],togeth:[1,3],told:2,ton:4,tool:[0,2,3,7],top:[1,2,5,7,8,9],top_basys3:10,top_basys3_arch:3,top_basys3_tb:3,top_level:3,total:4,tough:0,toward:[1,2],trace:10,track:4,transfer:2,transistor:1,trigger:4,troubl:2,truth:10,ttl:1,turn:[1,2,3,9,10],two:[1,2,3,4,9,10],type:[0,2,9,10],typic:9,u16:9,ultim:2,uncheck:[5,10],uncom:[2,3,10],unconnect:9,under:[1,2,5,8,9,10],underneath:2,understand:[0,7,10],unexpect:5,unfortun:5,uniqu:3,unisim:2,unit:[2,7,9],unix:0,unless:[5,9,10],unlik:[2,3],unsign:9,unstag:4,untrack:4,unus:9,up:[0,1,4,8,9,10],updat:[4,5],upload:0,upon:10,upper:2,url:[4,8],us:[0,1,2,3,4,6,7,8,9,10],usafa:[0,4,8],usag:5,usb:[1,2],user:[0,4,5,10],usernam:0,usg:0,usual:0,util:[1,2],uut:[2,9],v17:[2,3,9],v:[1,4,6],v_:[1,2],valid:5,valu:[1,2,3,9,10],variabl:[2,3],varieti:0,vcc:9,vdhl:[2,3],ve:0,vector:[2,3,9,10],veri:[2,4,8,9],verif:2,verifi:[0,2,3,7,8,9,10],verilog:2,version:[0,4,5],vertic:1,vhd:[2,3,5,9,10],vhdl:[3,5,9,10],vhsic:2,via:[1,10],viavado:2,viavdo:2,video:2,view:[0,5],vim:0,violat:[9,10],virtual:2,vivado:7,vivadopath:5,voltag:1,vs:[0,5],w_7sd_en_n:10,w_:2,w_cout1:3,w_led0:2,w_led1:2,w_led:3,w_s1:3,w_sd_en_n:10,w_seg:10,w_sel:9,w_sw0:2,w_sw1:2,w_sw:[3,9],wa:[0,2,8,9],wai:[2,10],wait:[0,2,3,5,8,9],walk:0,want:[2,4,8,9,10],warner:2,waveform:[2,3,8,9,10],we:[0,1,2,3,5,8,9,10],web:4,websit:4,welcom:[0,5],well:[0,3,10],were:[0,2],what:[0,2,3,4,8,9,10],whatev:5,when:[0,1,2,4,5,8,9,10],whenev:2,where:[1,2,3,4,5,10],wherev:8,whether:10,which:[1,2,3,4,9,10],white:1,who:0,whole:3,wide:0,wiki:4,wikipedia:4,window:[0,2,4,5,8,9,10],wire:[2,3,9,10],within:[0,2,3,9,10],without:[2,9,10],wizard:5,word:2,work:[0,1,2,3,4,7,8,9,10],workflow:4,workstat:3,world:[0,8],worth:5,would:[1,2,4,9,10],write:[0,2,3,4,9],written:9,x:[1,9,10],xb_:2,xc7a35tcpg236:5,xdc:[2,3,5,9,10],xi_:2,xilinx:[2,3,7],xilinxboardstor:5,xml:5,xo_:2,xor:2,xpr:[2,8],y:[1,9],ye:[2,8],yet:2,yield:6,you:[0,1,2,3,4,5,8,9,10],your:[0,1,3,4,5,8,9,10],your_email:0,yourproject:5,yourself:0,zero:1,zoom:2,zybook:2},titles:["BCE 0: Get started with Git","ICE 1: OR Gates","ICE 2: Half-Adder","ICE 3: Top Level Design","GitHub real fast","Xilinx Vivado","FAQ","ECE 281: Digital Design and Computer Architecture","Lab 0: Install Vivado","Lab 1 - ThirtyOneDayMonth","Lab 2 - Seven Segment Display Decoder"],titleterms:{"0":[0,8],"1":[1,9],"2":[2,10],"281":7,"3":3,"7432":1,"7sd":10,"class":7,"import":3,"new":5,"switch":1,A:10,In:7,OR:1,The:[1,3],To:5,account:0,action:10,actual:5,add:[4,5],adder:[2,3],agenda:1,an:0,appendix:7,architectur:[2,3,7,9,10],assign:0,background:[1,2,3,9,10],basic:0,bce:0,behavior:10,bitstream:[2,3],board:5,branch:4,breadboard:1,build:[1,2,8],chang:5,check:2,chip:1,circuit:[1,9],clone:[2,4,8],collabor:[1,9,10],commit:4,complet:[0,10],compon:3,comput:7,configur:[0,2],constraint:[2,3,9],cours:7,creat:[0,5],criteria:1,declar:3,decod:10,deliver:[9,10],demo:10,design:[2,3,7],diff:5,digit:7,displai:10,download:2,draw:9,ec:7,edit:[2,3,5],end:[2,3],entiti:[2,3,9,10],equat:1,exercis:7,exit:1,faq:6,fast:4,file:[2,3,5,9,10],flow:2,fpga:[2,3,8,9],from:[3,4],full:3,gate:1,gener:2,get:0,git:[0,2,4,5,8,10],github:[0,4,8,10],goal:7,half:[2,3],hardwar:10,header:2,how:5,ic:[1,2,3],id:0,implement:[2,3,9,10],includ:2,info:7,input:9,instal:[0,8],instanti:3,integr:9,interfac:9,k:9,kei:0,lab:[7,8,9,10],led:1,level:[3,10],librari:2,logic:1,manual:5,map:9,model:10,modifi:2,multipl:3,note:10,object:[1,2,3,7,9,10],onto:2,option:0,other:3,output:9,overview:[0,1,2,3,8,9,10],power:1,pre:[9,10],prelab:10,program:8,project:[2,3,5,8,9,10],pull:4,push:4,readm:3,real:4,rememb:2,remot:4,report:10,repositori:[4,8],resistor:1,rtl:2,run:9,schemat:[2,9],segment:10,setup:[0,2,3,8,9,10],seven:10,sevensegdecod:10,simul:[2,3,9],ssh:0,start:0,state:[2,3],statu:4,structur:10,suppli:[1,9,10],syntax:2,tabl:[2,3,9],tcl:5,technolog:2,test:[2,3,8,10],testbench:[2,3,9],thirtyonedaymonth:9,top:[3,10],top_basys3:3,truth:[2,3,9],understand:2,up:[2,3],us:5,vhdl:2,view:2,vivado:[2,3,5,8,9,10],vs:10,wave:2,what:5,wire:1,work:5,wrap:[2,3],write:5,written:10,xilinx:5,your:2}})

diff --git a/lab/lab2.html b/lab/lab2.html
@@ -975,6 +975,8 @@ busses, such as <code class="docutils literal notranslate"><span class="pre">sw<
 <li><p>Add enough assert statements to cover the truth table.</p></li>
 <li><p>Fix any syntax errors, and run the simulation.</p></li>
 </ol>
+<p>If <strong>sevenSegDecoder_tb</strong> is not set as the top of your simulation hierarchy,
+right click on it and choose “Set as top.”</p>
 <blockquote>
 <div><p>Make sure the simulation results match your Prelab truth table, and
 then <strong>take a waveform screenshot for your report</strong>.</p>

diff --git a/_sources/lab/lab2.md b/_sources/lab/lab2.md
@@ -335,6 +335,9 @@ your simulation)
 6. Add enough assert statements to cover the truth table.
 7. Fix any syntax errors, and run the simulation.
 
+If **sevenSegDecoder_tb** is not set as the top of your simulation hierarchy,
+right click on it and choose "Set as top."
+
 > Make sure the simulation results match your Prelab truth table, and
 > then **take a waveform screenshot for your report**.
 
